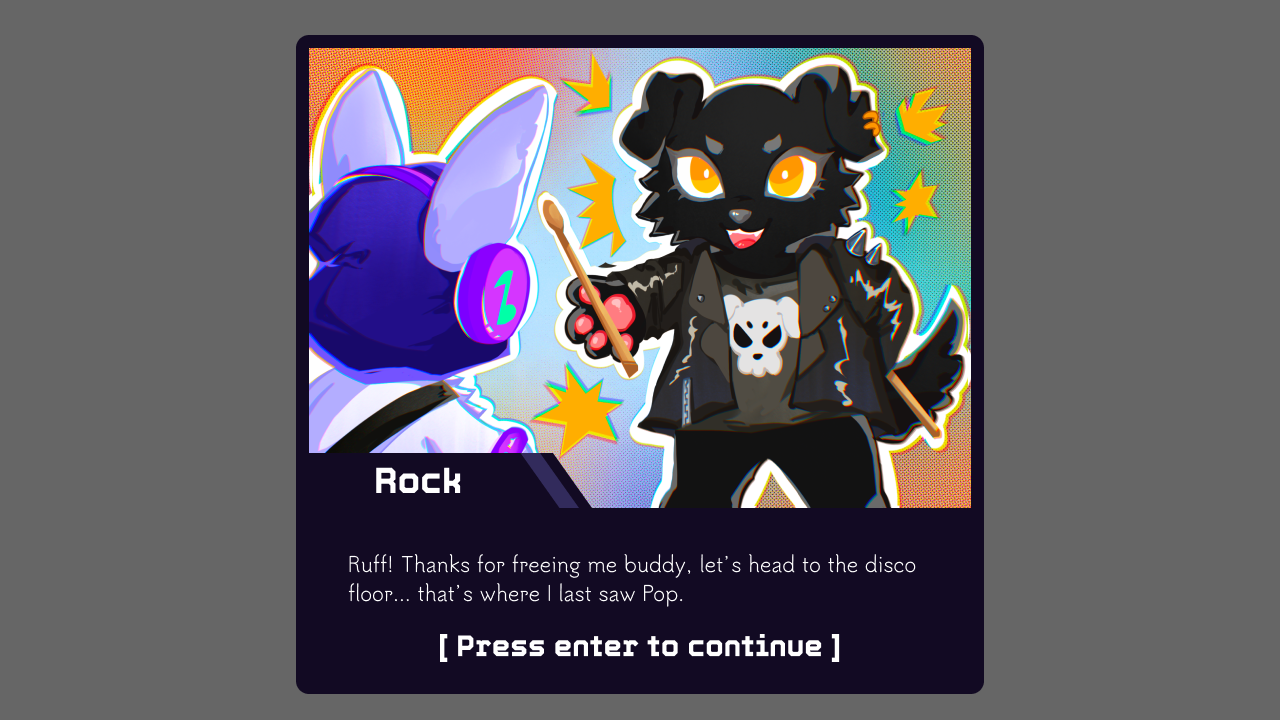
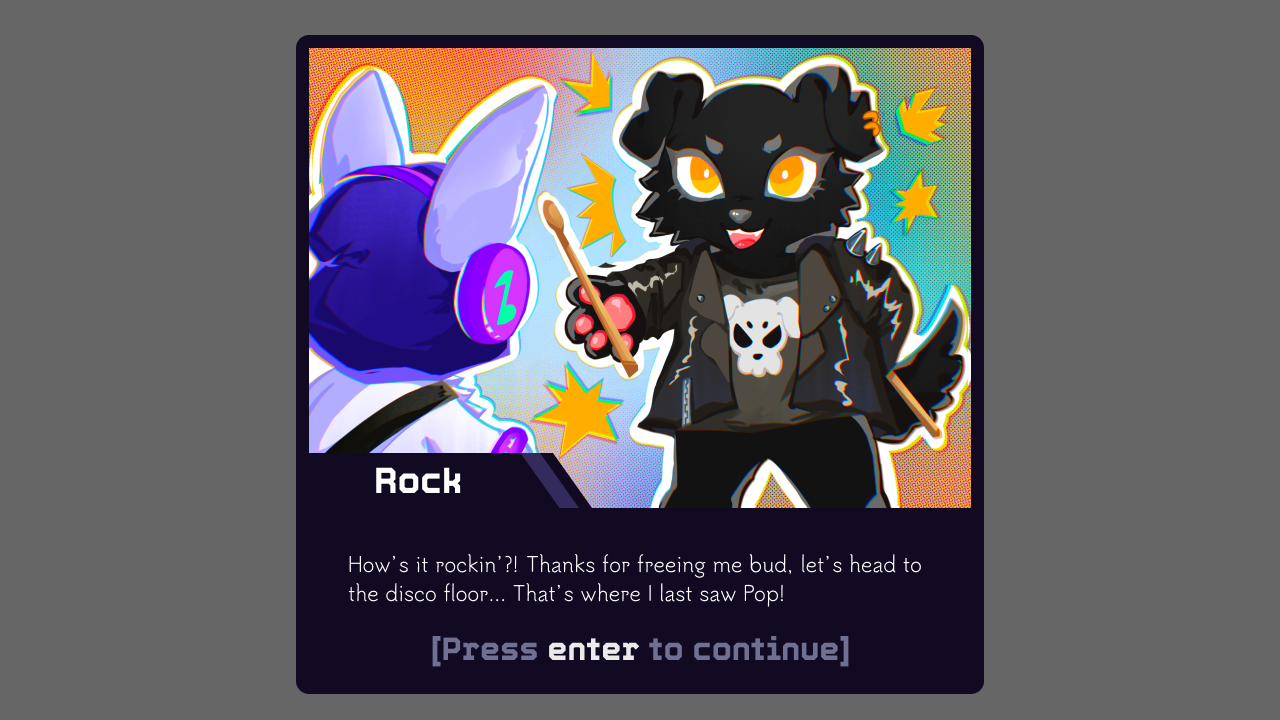
CUTSCENES!!

Changed region(s): [[0.2812, 0.7639, 0.7188, 0.8556], [0.3125, 0.8861, 0.6875, 0.9167]]

diff --git a/core/src/edu/cornell/gdiac/rabbeat/GameController.java b/core/src/edu/cornell/gdiac/rabbeat/GameController.java
@@ -768,12 +768,21 @@ public class GameController implements Screen, ContactListener {
 			} else if(showLevel1FourthCutScene) {
 				displayStartCutScenes = false;
 			}
+		} else if(currentLevelInt == 9 && InputController.getInstance().didPressEnter() && !paused) {
+			if(showLevel9StartingScreen[0]) {
+				showLevel9StartingScreen[1] = true;
+				showLevel9StartingScreen[0] = false;
+			} else if(showLevel9StartingScreen[1]) {
+				displayStartCutScenes = false;
+			}
 		}
 
 		//ADD: !showLevel1ThirdCutScene && !showLevel1FourthCutScene if more cutscenes
 		if(currentLevelInt == 1 && !showLevel1FirstCutScene && !showLevel1SecondCutScene
 				&& !showLevel1ThirdCutScene && !showLevel1FourthCutScene && displayStartCutScenes) {
 			showLevel1FirstCutScene = true;
+		} else if(currentLevelInt == 9 && !showLevel9StartingScreen[0] && !showLevel9StartingScreen[1]) {
+			showLevel9StartingScreen[0] = true;
 		}
 
 		if (listener != null) {
@@ -1151,6 +1160,8 @@ public class GameController implements Screen, ContactListener {
 	/** The boolean that represents whether the fourth starting cut scene in level 1 should be displayed */
 	public static boolean showLevel1FourthCutScene;
 
+	public static Boolean[] showLevel9StartingScreen = {false, false};
+
 	/**
 	 * Draw the physics objects to the canvas
 	 * <p>
@@ -1192,7 +1203,7 @@ public class GameController implements Screen, ContactListener {
 		// Victory Screen
 		if (complete && !failed) {if((currentLevelInt == 1 && !showFirstVictoryScreen && !showSecondVictoryScreen)
 					|| (currentLevelInt == 12 && !showFirstVictoryScreen && !showSecondVictoryScreen
-					&& !showThirdVictoryScreen && !showFourthVictoryScreen)) {
+					&& !showThirdVictoryScreen && !showFourthVictoryScreen && !showFifthVictoryScreen)) {
 				showFirstVictoryScreen = true;
 			}
 
@@ -1213,17 +1224,19 @@ public class GameController implements Screen, ContactListener {
 
 		if(currentLevelInt == 1 && displayStartCutScenes){
 			if(showLevel1FourthCutScene) {
-				//TODO: replace with 4th start screen
-				canvasDrawVictoryScreen(objectController.level4VS);
+				canvasDrawVictoryScreen(objectController.startScreens.get("lvl1Start-4"));
 			} else if (showLevel1ThirdCutScene){
-				//TODO: replace with 3rd start screen
-				canvasDrawVictoryScreen(objectController.level1VS);
+				canvasDrawVictoryScreen(objectController.startScreens.get("lvl1Start-3"));
 			} else if(showLevel1SecondCutScene) {
-				//TODO: replace with 2nd start screen
-				canvasDrawVictoryScreen(objectController.level4VS);
+				canvasDrawVictoryScreen(objectController.startScreens.get("lvl1Start-2"));
 			} else if (showLevel1FirstCutScene){
-				//TODO: replace with 1st start screen
-				canvasDrawVictoryScreen(objectController.level1VS);
+				canvasDrawVictoryScreen(objectController.startScreens.get("lvl1Start-1"));
+			}
+		} else if(currentLevelInt == 9 && displayStartCutScenes){
+			if(showLevel9StartingScreen[1]) {
+				canvasDrawVictoryScreen(objectController.startScreens.get("lvl9Start-2"));
+			} else if (showLevel9StartingScreen[0]){
+				canvasDrawVictoryScreen(objectController.startScreens.get("lvl9Start-1"));
 			}
 		}
 
@@ -1385,6 +1398,10 @@ public class GameController implements Screen, ContactListener {
 					showLevel1SecondCutScene = false;
 					showLevel1ThirdCutScene = false;
 					showLevel1FourthCutScene = false;
+				} else if(currentLevelInt == 9) {
+					displayStartCutScenes = true;
+					showLevel9StartingScreen[0] = false;
+					showLevel9StartingScreen[1] = false;
 				}
 				break;
 			case 0: // Resume Level
@@ -1559,6 +1576,9 @@ public class GameController implements Screen, ContactListener {
 	/** Boolean that represents whether the fourth victory screen is showing for level 12*/
 	public boolean showFourthVictoryScreen;
 
+	/** Boolean that represents whether the fifth victory screen is showing for level 12*/
+	public boolean showFifthVictoryScreen;
+
 
 	/** Displays the victory screen after player completes a level */
 	public void drawVictoryScreen () {
@@ -1576,28 +1596,30 @@ public class GameController implements Screen, ContactListener {
 
 			}
 			if (showFirstVictoryScreen) {
-				canvasDrawVictoryScreen(objectController.level1VS);
+				canvasDrawVictoryScreen(objectController.victoryScreens.get("level1VS-1"));
 			} else if (showSecondVictoryScreen) {
-				//TODO: replace with 2nd victory screen
-				canvasDrawVictoryScreen(objectController.level4VS);
+				canvasDrawVictoryScreen(objectController.victoryScreens.get("level1VS-2"));
 			}
 
 
 		} else if (currentLevelInt == 4) {
-			canvas.draw(objectController.level4VS, 0, 0);
+			canvas.draw(objectController.victoryScreens.get("level4VS"), 0, 0);
 		} else if (currentLevelInt == 6) {
-			canvas.draw(objectController.level6VS, 0, 0);
+			canvas.draw(objectController.victoryScreens.get("level6VS"), 0, 0);
 		} else if (currentLevelInt == 8) {
-			canvas.draw(objectController.level8VS, 0, 0);
-		} else if (currentLevelInt == 9) {
-			canvas.draw(objectController.level9VS, 0, 0);
+			canvas.draw(objectController.victoryScreens.get("level8VS"), 0, 0);
 		} else if (currentLevelInt == 10) {
-			canvas.draw(objectController.level10VS, 0, 0);
+			canvas.draw(objectController.victoryScreens.get("level10VS"), 0, 0);
+		} else if (currentLevelInt == 11) {
+			canvas.draw(objectController.victoryScreens.get("level11VS"), 0, 0);
 		} else if (currentLevelInt == 12) {
 			if(InputController.getInstance().didPressEnter()) {
-				if(showThirdVictoryScreen) {
+				if (showFourthVictoryScreen) {
+					showFifthVictoryScreen=true;
+					showFourthVictoryScreen=false;
+				} else if (showThirdVictoryScreen) {
 					showFourthVictoryScreen = true;
-					showSecondVictoryScreen = false;
+					showThirdVictoryScreen = false;
 				} else if(showSecondVictoryScreen) {
 					showThirdVictoryScreen = true;
 					showSecondVictoryScreen = false;
@@ -1608,16 +1630,19 @@ public class GameController implements Screen, ContactListener {
 			}
 
 			if(showFirstVictoryScreen) {
-				canvasDrawVictoryScreen(objectController.level1VS);
+				canvasDrawVictoryScreen(objectController.victoryScreens.get("level12VS-1"));
 			} else if(showSecondVictoryScreen) {
 				//TODO: replace with 2nd victory screen (Level 12)
-				canvasDrawVictoryScreen(objectController.level4VS);
+				canvasDrawVictoryScreen(objectController.victoryScreens.get("level12VS-2"));
 			} else if(showThirdVictoryScreen) {
 				//TODO: replace with 3nd victory screen (Level 12)
-				canvasDrawVictoryScreen(objectController.level1VS);
+				canvasDrawVictoryScreen(objectController.victoryScreens.get("level12VS-3"));
 			} else if(showFourthVictoryScreen) {
 				//TODO: replace with 4th victory screen (Level 12)
-				canvasDrawVictoryScreen(objectController.level4VS);
+				canvasDrawVictoryScreen(objectController.victoryScreens.get("level12VS-4"));
+			}else if(showFifthVictoryScreen) {
+				//TODO: replace with 4th victory screen (Level 12)
+				canvasDrawVictoryScreen(objectController.victoryScreens.get("level12VS-5"));
 			}
 
 		} else {

diff --git a/core/src/edu/cornell/gdiac/rabbeat/ObjectController.java b/core/src/edu/cornell/gdiac/rabbeat/ObjectController.java
@@ -316,12 +316,8 @@ public class ObjectController {
     public TextureRegion blackGradient;
 
     public TextureRegion victoryScreenBackground;
-    public TextureRegion level1VS;
-    public TextureRegion level4VS;
-    public TextureRegion level6VS;
-    public TextureRegion level8VS;
-    public TextureRegion level9VS;
-    public TextureRegion level10VS;
+    public HashMap<String, TextureRegion> victoryScreens = new HashMap<>();
+    public HashMap<String, TextureRegion> startScreens = new HashMap<>();
 
     // HashMaps
     private HashMap<String, TextureRegion> assets = new HashMap<>();
@@ -537,12 +533,25 @@ public class ObjectController {
         levelButtonHover12 = directory.getEntry("ui:levelButtonsHoverState:level12ButtonHover", Texture.class);
 
         victoryScreenBackground = new TextureRegion(directory.getEntry("ui:victoryScreen", Texture.class));
-        level1VS = new TextureRegion(directory.getEntry("ui:lvl1VS", Texture.class));
-        level4VS = new TextureRegion(directory.getEntry("ui:lvl4VS", Texture.class));
-        level6VS = new TextureRegion(directory.getEntry("ui:lvl6VS", Texture.class));
-        level8VS = new TextureRegion(directory.getEntry("ui:lvl8VS", Texture.class));
-        level9VS = new TextureRegion(directory.getEntry("ui:lvl9VS", Texture.class));
-        level10VS = new TextureRegion(directory.getEntry("ui:lvl10VS", Texture.class));
+        victoryScreens.put("level1VS-1", new TextureRegion(directory.getEntry("ui:lvl1VS-1", Texture.class)));
+        victoryScreens.put("level1VS-2", new TextureRegion(directory.getEntry("ui:lvl1VS-2", Texture.class)));
+        victoryScreens.put("level4VS", new TextureRegion(directory.getEntry("ui:lvl4VS", Texture.class)));
+        victoryScreens.put("level6VS", new TextureRegion(directory.getEntry("ui:lvl6VS", Texture.class)));
+        victoryScreens.put("level8VS", new TextureRegion(directory.getEntry("ui:lvl8VS", Texture.class)));
+        victoryScreens.put("level10VS", new TextureRegion(directory.getEntry("ui:lvl10VS", Texture.class)));
+        victoryScreens.put("level11VS", new TextureRegion(directory.getEntry("ui:lvl11VS", Texture.class)));
+        victoryScreens.put("level12VS-1", new TextureRegion(directory.getEntry("ui:lvl12VS-1", Texture.class)));
+        victoryScreens.put("level12VS-2", new TextureRegion(directory.getEntry("ui:lvl12VS-2", Texture.class)));
+        victoryScreens.put("level12VS-3", new TextureRegion(directory.getEntry("ui:lvl12VS-3", Texture.class)));
+        victoryScreens.put("level12VS-4", new TextureRegion(directory.getEntry("ui:lvl12VS-4", Texture.class)));
+        victoryScreens.put("level12VS-5", new TextureRegion(directory.getEntry("ui:lvl12VS-5", Texture.class)));
+
+        startScreens.put("lvl1Start-1", new TextureRegion(directory.getEntry("ui:lvl1Start-1", Texture.class)));
+        startScreens.put("lvl1Start-2", new TextureRegion(directory.getEntry("ui:lvl1Start-2", Texture.class)));
+        startScreens.put("lvl1Start-3", new TextureRegion(directory.getEntry("ui:lvl1Start-3", Texture.class)));
+        startScreens.put("lvl1Start-4", new TextureRegion(directory.getEntry("ui:lvl1Start-4", Texture.class)));
+        startScreens.put("lvl9Start-1", new TextureRegion(directory.getEntry("ui:lvl9Start-1", Texture.class)));
+        startScreens.put("lvl9Start-2", new TextureRegion(directory.getEntry("ui:lvl9Start-2", Texture.class)));
 
         levelSelectBackground = directory.getEntry("backgrounds:levelSelectBackground", Texture.class);
 

diff --git a/core/src/edu/cornell/gdiac/rabbeat/LevelSelectorScreen.java b/core/src/edu/cornell/gdiac/rabbeat/LevelSelectorScreen.java
@@ -388,6 +388,9 @@ public class LevelSelectorScreen extends ScreenAdapter {
                         if (finalI <= GameController.getInstance().getLevelsUnlocked()) {
                             GameController.getInstance().setCurrentLevelInt(9);
                             listener.exitScreen(LevelSelectorScreen.this, 0);
+                            GameController.displayStartCutScenes = true;
+                            GameController.showLevel9StartingScreen[0] = false;
+                            GameController.showLevel9StartingScreen[1] = false;
                         }
                     }
                 });
@@ -655,6 +658,9 @@ public class LevelSelectorScreen extends ScreenAdapter {
                 GameController.getInstance().setCurrentLevelInt(8);
             } else if(hover9) {
                 GameController.getInstance().setCurrentLevelInt(9);
+                GameController.displayStartCutScenes = true;
+                GameController.showLevel9StartingScreen[0] = false;
+                GameController.showLevel9StartingScreen[1] = false;
             } else if(hover10) {
                 GameController.getInstance().setCurrentLevelInt(10);
             } else if(hover11) {
